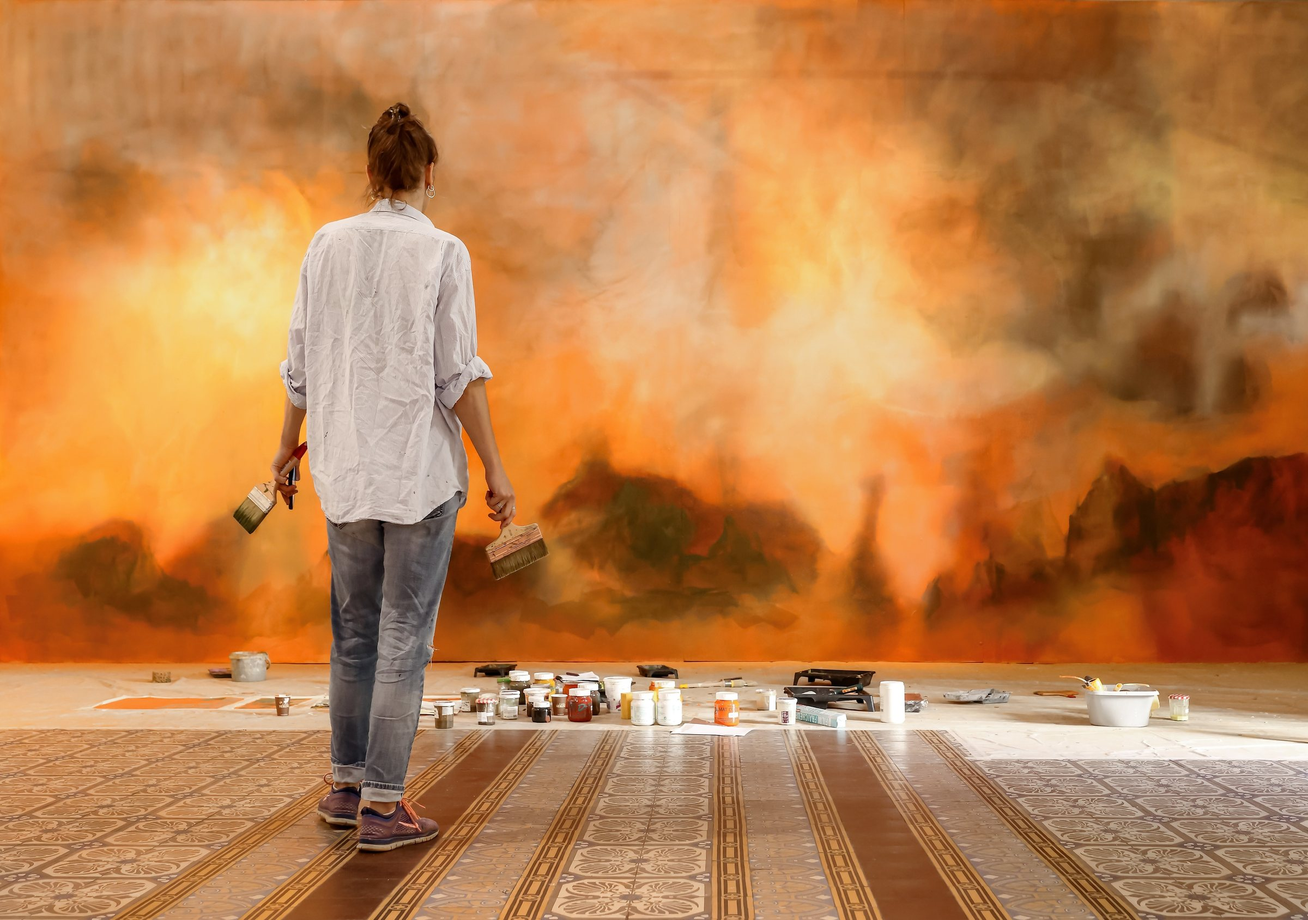
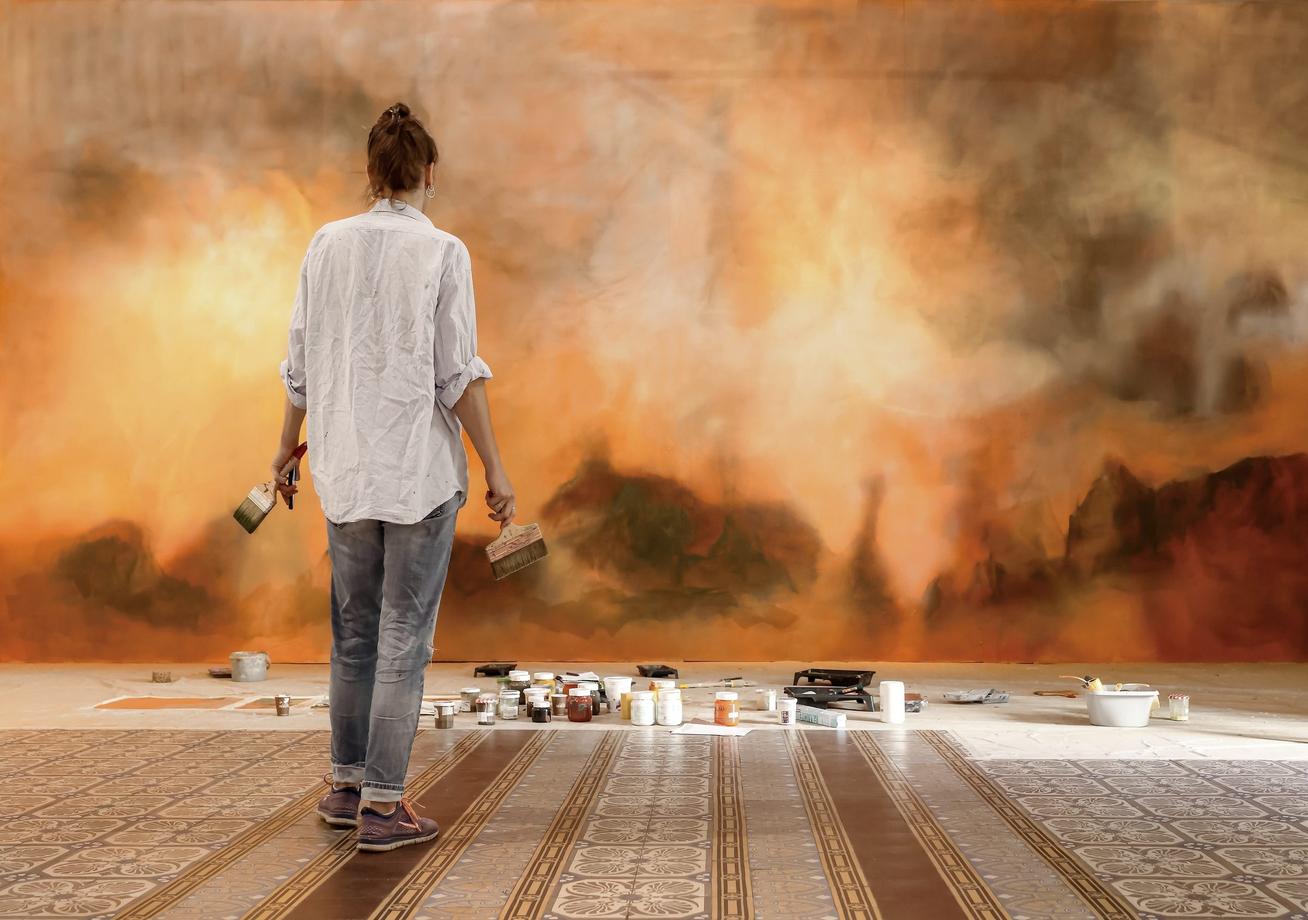
CV : mention de Gonzalo Belmonte retirée ; photo Contact désaturée de 25 %

diff --git a/js/data.js b/js/data.js
@@ -36,7 +36,7 @@ const SITE = {
   portraits: {
     // credit : nom du ou de la photographe — À COMPLÉTER
     apropos: { src: "images/portraits/portrait-1-nb.jpg", w: 2226, h: 2400, credit: "" },
-    contact: { src: "images/portraits/portrait-visitation-6.jpg", w: 2400, h: 1689, credit: "" }, // PortraitVisitation6REC, en couleur
+    contact: { src: "images/portraits/portrait-visitation-6.jpg?v=2", w: 2400, h: 1689, credit: "" }, // PortraitVisitation6REC, en couleur, saturation -25 %
   },
 
   // Page Bio — ligne sous le nom, puis texte de démarche, au « je » (à retravailler par Clémence)
@@ -405,7 +405,7 @@ const SITE = {
     formation: [
       { an: "2017–2019", texte: { fr: "Master recherche Arts plastiques, École des arts de la Sorbonne, Paris", en: "Research Master's in Visual Arts, École des arts de la Sorbonne, Paris" } },
       { an: "2014–2017", texte: { fr: "Licence Arts plastiques, École des arts de la Sorbonne, Paris", en: "Bachelor's in Visual Arts, École des arts de la Sorbonne, Paris" } },
-      { an: "2013–2016", texte: { fr: "Ateliers des Beaux-Arts de la Ville de Paris (Glacière), atelier de peinture de Gonzalo Belmonte", en: "Ateliers des Beaux-Arts de la Ville de Paris (Glacière), painting studio of Gonzalo Belmonte" } },
+      { an: "2013–2016", texte: { fr: "Ateliers des Beaux-Arts de la Ville de Paris (Glacière), atelier de peinture", en: "Ateliers des Beaux-Arts de la Ville de Paris (Glacière), painting studio" } },
       { an: "2014–2015", texte: { fr: "Formation en réalisation et montage de court-métrage, Ville de Paris", en: "Short film directing and editing course, City of Paris" } },
     ],
     prix: [

diff --git a/en/exhibitions.html b/en/exhibitions.html
@@ -27,12 +27,12 @@
   <link rel="preconnect" href="https://fonts.googleapis.com">
   <link rel="preconnect" href="https://fonts.gstatic.com" crossorigin>
   <link href="https://fonts.googleapis.com/css2?family=Yanone+Kaffeesatz:wght@700&display=swap" rel="stylesheet">
-  <link rel="stylesheet" href="css/style.css?v=148">
+  <link rel="stylesheet" href="css/style.css?v=149">
 </head>
 <body data-page="exhibitions">
   <header class="colonne" data-nav></header>
   <main></main>
-  <script src="js/data.js?v=148"></script>
-  <script src="js/site.js?v=148"></script>
+  <script src="js/data.js?v=149"></script>
+  <script src="js/site.js?v=149"></script>
 </body>
 </html>

diff --git a/exhibitions.html b/exhibitions.html
@@ -26,12 +26,12 @@
   <link rel="preconnect" href="https://fonts.googleapis.com">
   <link rel="preconnect" href="https://fonts.gstatic.com" crossorigin>
   <link href="https://fonts.googleapis.com/css2?family=Yanone+Kaffeesatz:wght@700&display=swap" rel="stylesheet">
-  <link rel="stylesheet" href="css/style.css?v=148">
+  <link rel="stylesheet" href="css/style.css?v=149">
 </head>
 <body data-page="exhibitions">
   <header class="colonne" data-nav></header>
   <main></main>
-  <script src="js/data.js?v=148"></script>
-  <script src="js/site.js?v=148"></script>
+  <script src="js/data.js?v=149"></script>
+  <script src="js/site.js?v=149"></script>
 </body>
 </html>

diff --git a/en/paintings.html b/en/paintings.html
@@ -27,12 +27,12 @@
   <link rel="preconnect" href="https://fonts.googleapis.com">
   <link rel="preconnect" href="https://fonts.gstatic.com" crossorigin>
   <link href="https://fonts.googleapis.com/css2?family=Yanone+Kaffeesatz:wght@700&display=swap" rel="stylesheet">
-  <link rel="stylesheet" href="css/style.css?v=148">
+  <link rel="stylesheet" href="css/style.css?v=149">
 </head>
 <body data-page="paintings">
   <header class="colonne" data-nav></header>
   <main></main>
-  <script src="js/data.js?v=148"></script>
-  <script src="js/site.js?v=148"></script>
+  <script src="js/data.js?v=149"></script>
+  <script src="js/site.js?v=149"></script>
 </body>
 </html>

diff --git a/paintings.html b/paintings.html
@@ -26,12 +26,12 @@
   <link rel="preconnect" href="https://fonts.googleapis.com">
   <link rel="preconnect" href="https://fonts.gstatic.com" crossorigin>
   <link href="https://fonts.googleapis.com/css2?family=Yanone+Kaffeesatz:wght@700&display=swap" rel="stylesheet">
-  <link rel="stylesheet" href="css/style.css?v=148">
+  <link rel="stylesheet" href="css/style.css?v=149">
 </head>
 <body data-page="paintings">
   <header class="colonne" data-nav></header>
   <main></main>
-  <script src="js/data.js?v=148"></script>
-  <script src="js/site.js?v=148"></script>
+  <script src="js/data.js?v=149"></script>
+  <script src="js/site.js?v=149"></script>
 </body>
 </html>

diff --git a/drawings.html b/drawings.html
@@ -26,12 +26,12 @@
   <link rel="preconnect" href="https://fonts.googleapis.com">
   <link rel="preconnect" href="https://fonts.gstatic.com" crossorigin>
   <link href="https://fonts.googleapis.com/css2?family=Yanone+Kaffeesatz:wght@700&display=swap" rel="stylesheet">
-  <link rel="stylesheet" href="css/style.css?v=148">
+  <link rel="stylesheet" href="css/style.css?v=149">
 </head>
 <body data-page="drawings">
   <header class="colonne" data-nav></header>
   <main></main>
-  <script src="js/data.js?v=148"></script>
-  <script src="js/site.js?v=148"></script>
+  <script src="js/data.js?v=149"></script>
+  <script src="js/site.js?v=149"></script>
 </body>
 </html>

diff --git a/en/drawings.html b/en/drawings.html
@@ -27,12 +27,12 @@
   <link rel="preconnect" href="https://fonts.googleapis.com">
   <link rel="preconnect" href="https://fonts.gstatic.com" crossorigin>
   <link href="https://fonts.googleapis.com/css2?family=Yanone+Kaffeesatz:wght@700&display=swap" rel="stylesheet">
-  <link rel="stylesheet" href="css/style.css?v=148">
+  <link rel="stylesheet" href="css/style.css?v=149">
 </head>
 <body data-page="drawings">
   <header class="colonne" data-nav></header>
   <main></main>
-  <script src="js/data.js?v=148"></script>
-  <script src="js/site.js?v=148"></script>
+  <script src="js/data.js?v=149"></script>
+  <script src="js/site.js?v=149"></script>
 </body>
 </html>

diff --git a/contact.html b/contact.html
@@ -26,12 +26,12 @@
   <link rel="preconnect" href="https://fonts.googleapis.com">
   <link rel="preconnect" href="https://fonts.gstatic.com" crossorigin>
   <link href="https://fonts.googleapis.com/css2?family=Yanone+Kaffeesatz:wght@700&display=swap" rel="stylesheet">
-  <link rel="stylesheet" href="css/style.css?v=148">
+  <link rel="stylesheet" href="css/style.css?v=149">
 </head>
 <body data-page="contact">
   <header class="colonne" data-nav></header>
   <main></main>
-  <script src="js/data.js?v=148"></script>
-  <script src="js/site.js?v=148"></script>
+  <script src="js/data.js?v=149"></script>
+  <script src="js/site.js?v=149"></script>
 </body>
 </html>

diff --git a/en/contact.html b/en/contact.html
@@ -27,12 +27,12 @@
   <link rel="preconnect" href="https://fonts.googleapis.com">
   <link rel="preconnect" href="https://fonts.gstatic.com" crossorigin>
   <link href="https://fonts.googleapis.com/css2?family=Yanone+Kaffeesatz:wght@700&display=swap" rel="stylesheet">
-  <link rel="stylesheet" href="css/style.css?v=148">
+  <link rel="stylesheet" href="css/style.css?v=149">
 </head>
 <body data-page="contact">
   <header class="colonne" data-nav></header>
   <main></main>
-  <script src="js/data.js?v=148"></script>
-  <script src="js/site.js?v=148"></script>
+  <script src="js/data.js?v=149"></script>
+  <script src="js/site.js?v=149"></script>
 </body>
 </html>

diff --git a/en/index.html b/en/index.html
@@ -27,12 +27,12 @@
   <link rel="preconnect" href="https://fonts.googleapis.com">
   <link rel="preconnect" href="https://fonts.gstatic.com" crossorigin>
   <link href="https://fonts.googleapis.com/css2?family=Yanone+Kaffeesatz:wght@700&display=swap" rel="stylesheet">
-  <link rel="stylesheet" href="css/style.css?v=148">
+  <link rel="stylesheet" href="css/style.css?v=149">
 </head>
 <body data-page="accueil">
   <header class="colonne" data-nav></header>
   <main></main>
-  <script src="js/data.js?v=148"></script>
-  <script src="js/site.js?v=148"></script>
+  <script src="js/data.js?v=149"></script>
+  <script src="js/site.js?v=149"></script>
 </body>
 </html>

diff --git a/index.html b/index.html
@@ -26,12 +26,12 @@
   <link rel="preconnect" href="https://fonts.googleapis.com">
   <link rel="preconnect" href="https://fonts.gstatic.com" crossorigin>
   <link href="https://fonts.googleapis.com/css2?family=Yanone+Kaffeesatz:wght@700&display=swap" rel="stylesheet">
-  <link rel="stylesheet" href="css/style.css?v=148">
+  <link rel="stylesheet" href="css/style.css?v=149">
 </head>
 <body data-page="accueil">
   <header class="colonne" data-nav></header>
   <main></main>
-  <script src="js/data.js?v=148"></script>
-  <script src="js/site.js?v=148"></script>
+  <script src="js/data.js?v=149"></script>
+  <script src="js/site.js?v=149"></script>
 </body>
 </html>

diff --git a/en/murals.html b/en/murals.html
@@ -27,12 +27,12 @@
   <link rel="preconnect" href="https://fonts.googleapis.com">
   <link rel="preconnect" href="https://fonts.gstatic.com" crossorigin>
   <link href="https://fonts.googleapis.com/css2?family=Yanone+Kaffeesatz:wght@700&display=swap" rel="stylesheet">
-  <link rel="stylesheet" href="css/style.css?v=148">
+  <link rel="stylesheet" href="css/style.css?v=149">
 </head>
 <body data-page="murals">
   <header class="colonne" data-nav></header>
   <main></main>
-  <script src="js/data.js?v=148"></script>
-  <script src="js/site.js?v=148"></script>
+  <script src="js/data.js?v=149"></script>
+  <script src="js/site.js?v=149"></script>
 </body>
 </html>
